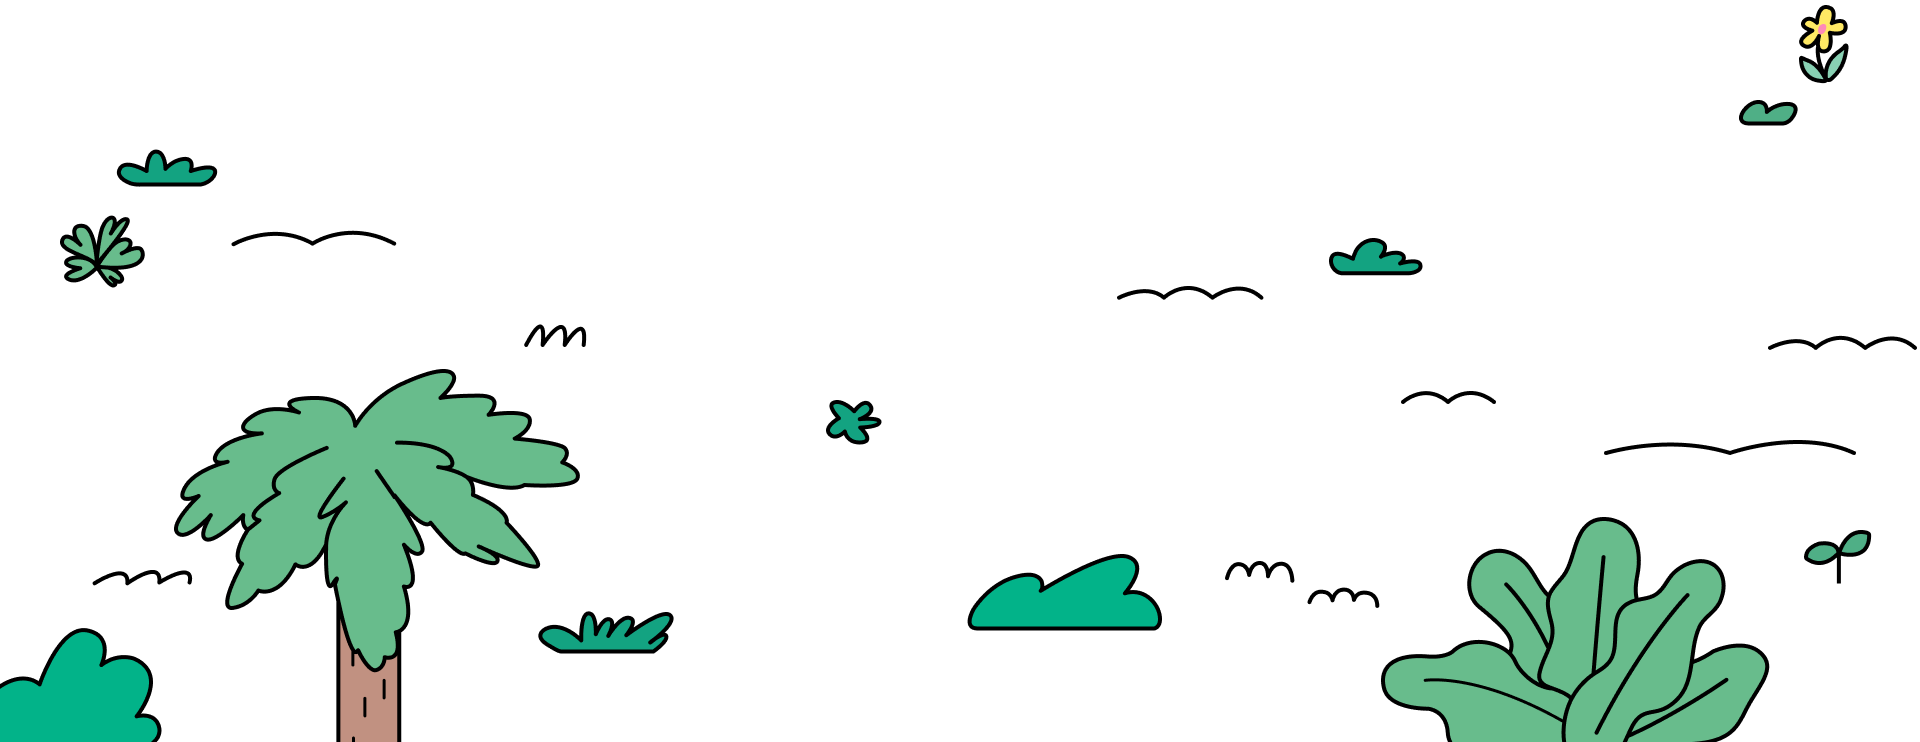
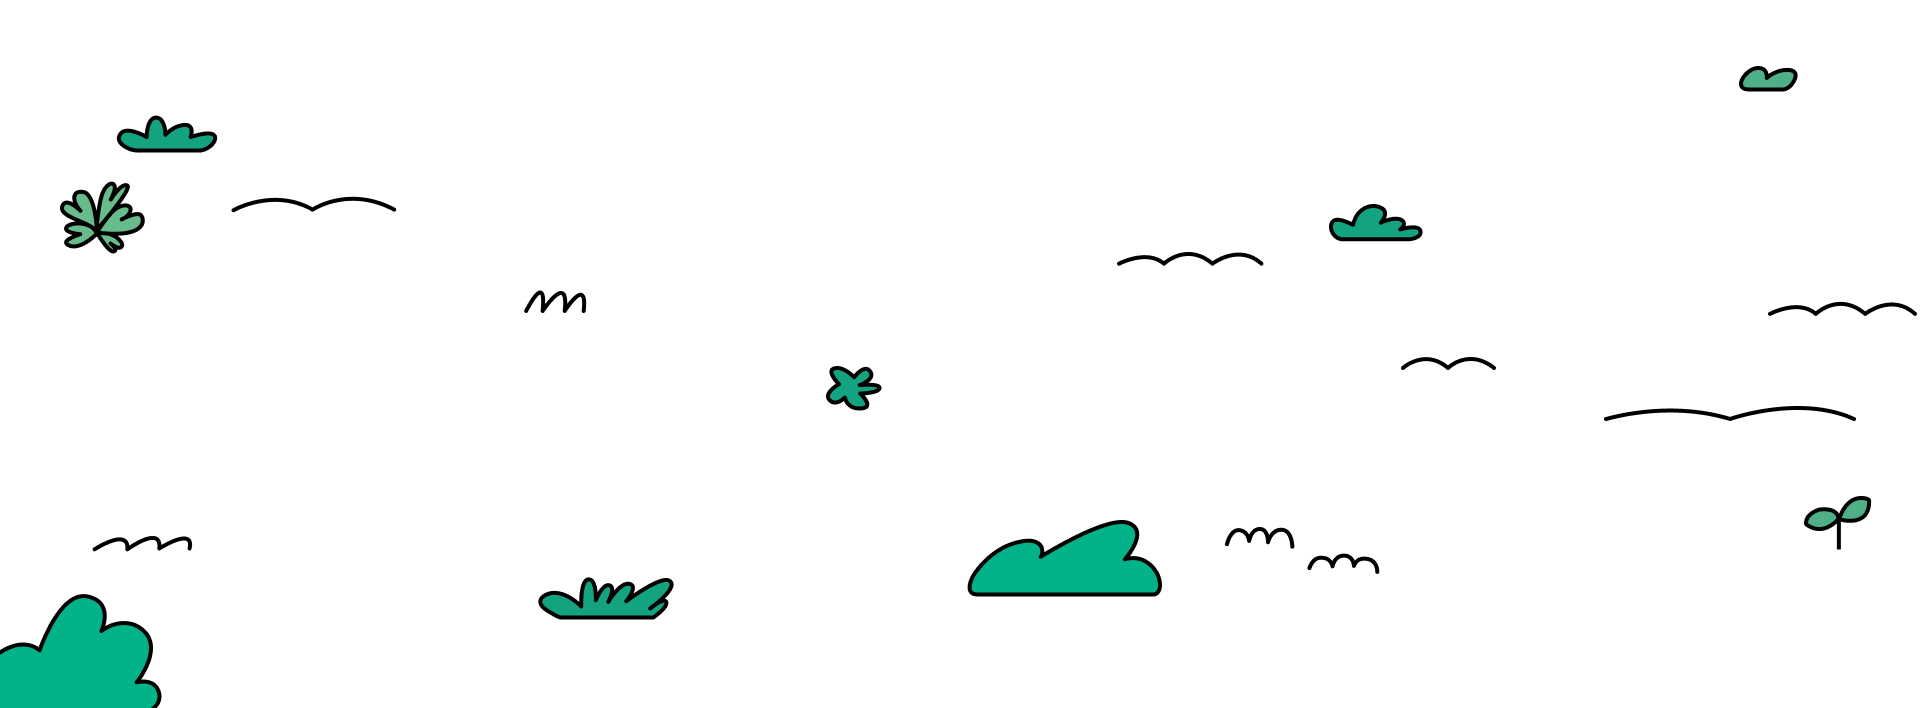
ok

diff --git a/css/main_style.css b/css/main_style.css
@@ -64,7 +64,6 @@ header {
   width: 1920px;
   height: 100vh;
   flex-shrink: 0;
-  /* 필요시 추가 스타일 */
 }
 
 .main_page,
@@ -73,8 +72,10 @@ header {
 .visual_design_page,
 .footer_page {
   position: relative;
+}
 
-  /* 기존 스타일 유지 */
+.top {
+  z-index: 7;
 }
 
 .main_page .top {
@@ -82,9 +83,17 @@ header {
   height: 294px;
   position: absolute;
   left: 0;
-  bottom: 570px;
+  bottom: 640px;
   background-image: url(../assets/png/main_top_bg.png);
+  background-repeat: no-repeat;
   z-index: 7;
+}
+
+.main_page .sky {
+  position: relative;
+  width: 100%;
+  height: 100%;
+  z-index: 1;
 }
 
 .bottom {
@@ -147,6 +156,9 @@ header {
   width: 100%;
   height: 312px;
   display: flex;
+  position: relative;
+  top: -30px;
+  left: 0;
   /* z-index: 0; */
 }
 
@@ -158,11 +170,12 @@ header {
 
 .uxui_page .bottom {
   background-image: url(../assets/svg/uxui-obj/under_obj2.svg);
+
   overflow: visible;
 }
 
 /* main_page */
-.main_page > .top .sky .m_cloud1 {
+.main_page > .sky .m_cloud1 {
   position: absolute;
   top: 50px;
   left: 140px;
@@ -170,7 +183,7 @@ header {
   /* z-index: 0; */
 }
 
-.main_page > .top .sky .m_cloud2 {
+.main_page > .sky .m_cloud2 {
   position: absolute;
   top: 50px;
   left: 1478px;
@@ -178,7 +191,7 @@ header {
   /* z-index: 0; */
 }
 
-.main_page > .top .sky .m_cloud3 {
+.main_page > .sky .m_cloud3 {
   position: absolute;
   top: 50px;
   left: 1654px;
@@ -194,9 +207,9 @@ header {
 
 .main_page .long_tree {
   position: absolute;
-  top: 94px;
+  top: -40px;
   left: 94px;
-  z-index: 4;
+  z-index: 30;
 }
 
 .main_page .s_leaf {
@@ -208,16 +221,17 @@ header {
 
 .main_page .wood {
   position: absolute;
-  top: 420px;
-  left: 500px;
-  z-index: 4;
+  top: 360px;
+  left: 430px;
+  z-index: 30;
 }
 
 .main_page .rabbit {
   position: absolute;
   top: 324px;
   left: 244px;
-  z-index: 4;
+  z-index: 30;
+  animation: rabbitMoveFlip 3.2s cubic-bezier(0.4, 0.7, 0.4, 1.2) infinite;
 }
 
 .main_page .watering_can {
@@ -229,9 +243,9 @@ header {
 
 .main_page .dotory_tree_a {
   position: absolute;
-  top: 272px;
-  left: 1492px;
-  z-index: 4;
+  top: 314px;
+  right: 244px;
+  z-index: 30;
 }
 
 /* uxui_page */
@@ -585,4 +599,22 @@ header {
   top: 172px;
   right: 188px;
   z-index: 1;
+}
+
+@keyframes rabbitMoveFlip {
+  0% {
+    transform: translateX(0) translateY(0) rotate(0deg) scaleX(1);
+  }
+  20% {
+    transform: translateX(74px) translateY(-4px) rotate(7deg) scaleX(1);
+  }
+  50% {
+    transform: translateX(0) translateY(0) rotate(0deg) scaleX(1);
+  }
+  70% {
+    transform: translateX(-74px) translateY(4px) rotate(-7deg) scaleX(-1);
+  }
+  100% {
+    transform: translateX(0) translateY(0) rotate(0deg) scaleX(1);
+  }
 }

diff --git a/index.html b/index.html
@@ -42,12 +42,14 @@
     <div class="horizontal-scroll">
       <section class="panel main_page">
         <h2>섹션 1</h2>
-        <div class="bottom">
-          <img src="./assets/svg/main_obj/snall_leaf.svg" alt="s_leaf" class="s_leaf" />
-          <img src="./assets/svg/main_obj/tree_long.svg" alt="long_tree" class="long_tree" />
-          <img src="./assets/svg/main_obj/wood.svg" alt="wood" class="wood" />
-          <img src="./assets/svg/main_obj/rabbit.svg" alt="rabbit" class="rabbit" />
-          <img src="./assets/svg/main_obj/watering_can.svg" alt="watering_can" class="watering_can" />
+        <article class="mainobj">
+            <img src="./assets/png/f_gen_y_b.png" alt="f_gen_y_b" class="f_gen_y_b">
+            <img src="./assets/png/f_gen_y_b.png" alt="f_gen_y_b" class="f_gen_y_b">
+            <img src="./assets/svg/main_obj/snall_leaf.svg" alt="s_leaf" class="s_leaf" />
+            <img src="./assets/svg/main_obj/tree_long.svg" alt="long_tree" class="long_tree" />
+            <img src="./assets/svg/main_obj/wood.svg" alt="wood" class="wood" />
+            <img src="./assets/svg/main_obj/rabbit.svg" alt="rabbit" class="rabbit" />
+            <img src="./assets/svg/main_obj/watering_can.svg" alt="watering_can" class="watering_can" />
           <div class="dotory_tree_a">
             <img src="./assets/svg/main_obj/dototy_tree.svg" alt="dototy_tree" class="dototy_tree" />
             <img src="./assets/svg/main_obj/dotory_a.svg" alt="dotory_a" class="dotory_a" />
@@ -71,14 +73,16 @@
               </a>
             </div>
           </div>
+        </article>
+        <div class="bottom">
         </div>
-        <div class="top">
-          <div class="sky">
+                <div class="sky">
             <img src="./assets/svg/main_obj/cloud_first.svg" alt="m_cloud1" class="m_cloud1" />
             <img src="./assets/svg/main_obj/cloud_second.svg" alt="m_cloud2" class="m_cloud2" />
             <img src="./assets/svg/main_obj/cloud_third.svg" alt="m_cloud3" class="m_cloud3" />
             <img src="./assets/svg/main_obj/sky_bird.svg" alt="sky_bird" class="sky_bird" />
           </div><!-- sky -->
+        <div class="top">
         </div>
       </section>
       <section class="panel uxui_page">
